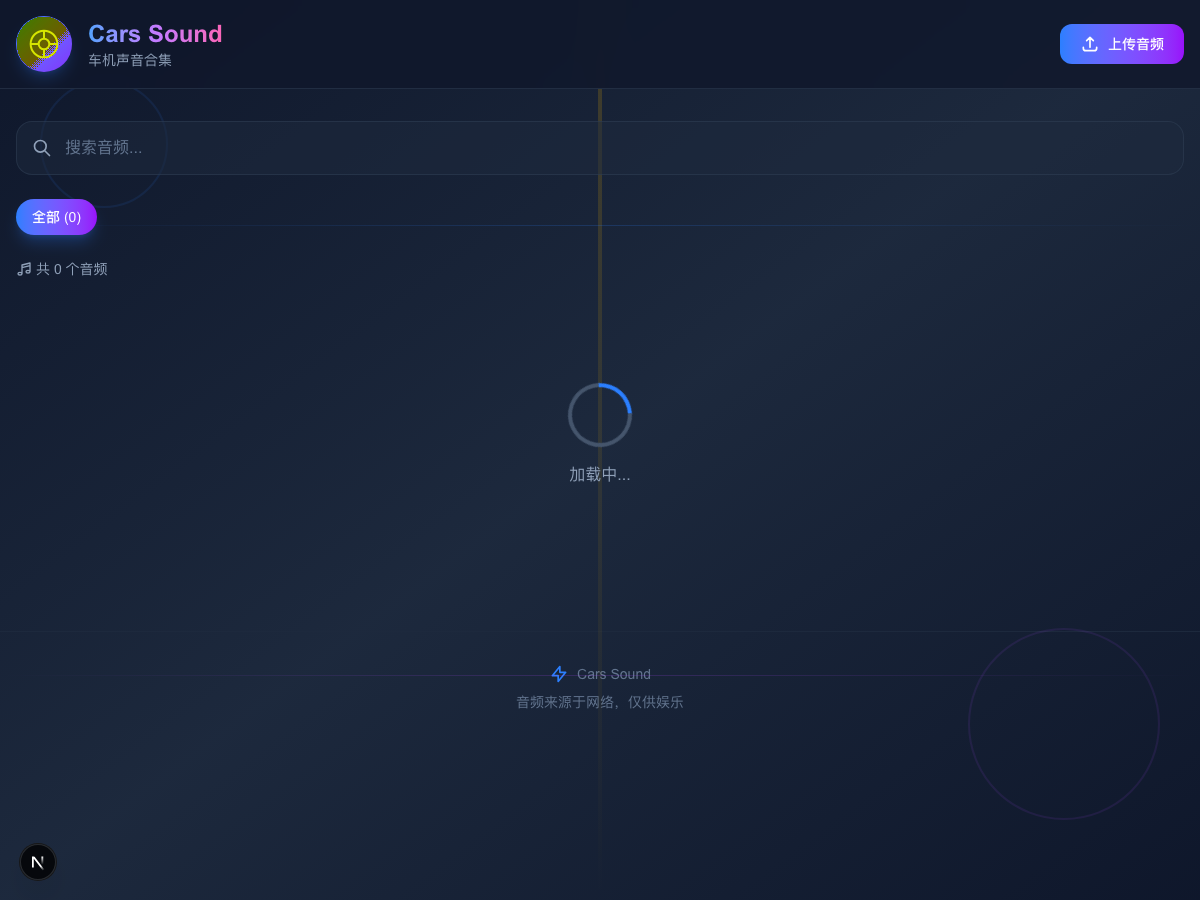
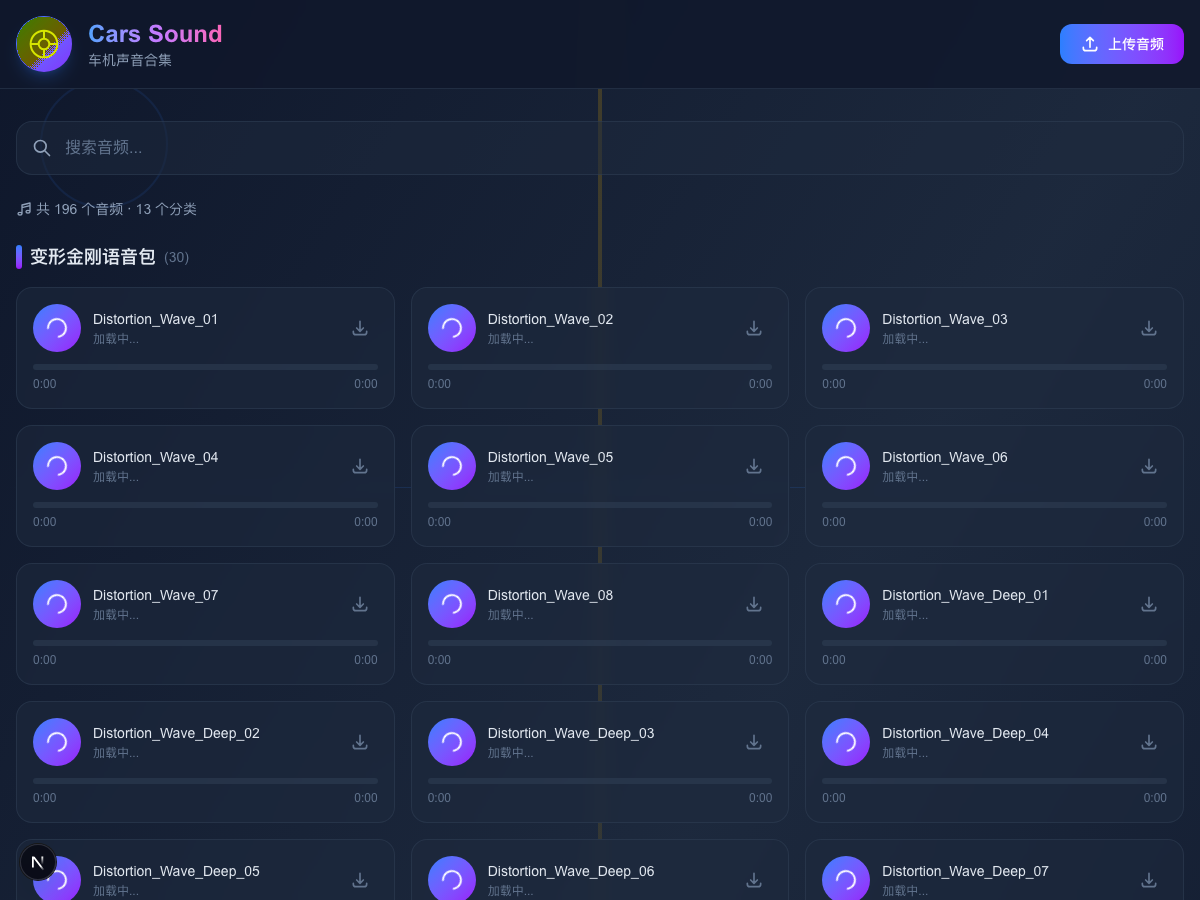
feat: 优化分类加载逻辑
1. 默认只加载第一个分类的音频
2. 点击分类筛选切换显示
3. 移除无限滚动，改为分类切换
4. 所有 R2 文件已按文件夹分类完成

diff --git a/src/app/page.tsx b/src/app/page.tsx
@@ -1,6 +1,6 @@
 'use client';
 
-import { useState, useEffect, useCallback, useRef } from 'react';
+import { useState, useEffect, useRef } from 'react';
 import AudioPlayer from '@/components/AudioPlayer';
 import UploadZone from '@/components/UploadZone';
 import JsonLd from '@/components/JsonLd';
@@ -19,17 +19,13 @@ interface Category {
   count: number;
 }
 
-const ITEMS_PER_PAGE = 30;
-
 export default function Home() {
   const [files, setFiles] = useState<AudioFile[]>([]);
   const [categories, setCategories] = useState<Category[]>([]);
   const [loading, setLoading] = useState(true);
   const [searchQuery, setSearchQuery] = useState('');
   const [showUpload, setShowUpload] = useState(false);
-  const [displayCount, setDisplayCount] = useState(ITEMS_PER_PAGE);
-  const observerRef = useRef<IntersectionObserver | null>(null);
-  const loadMoreRef = useRef<HTMLDivElement | null>(null);
+  const [selectedCategory, setSelectedCategory] = useState<string | null>(null);
 
   const fetchFiles = async () => {
     setLoading(true);
@@ -37,7 +33,12 @@ export default function Home() {
       const response = await fetch('/api/audio-list');
       const data = await response.json();
       setFiles(data.files || []);
-      setCategories(data.categories || []);
+      const cats = data.categories || [];
+      setCategories(cats);
+      // 默认选中第一个分类
+      if (cats.length > 0 && !selectedCategory) {
+        setSelectedCategory(cats[0].name);
+      }
     } catch (error) {
       console.error('Failed to fetch files:', error);
     } finally {
@@ -49,12 +50,8 @@ export default function Home() {
     fetchFiles();
   }, []);
 
-  const filteredFiles = files.filter(file => {
-    return file.name.toLowerCase().includes(searchQuery.toLowerCase());
-  });
-
   // 按分类分组
-  const groupedFiles = filteredFiles.reduce((acc, file) => {
+  const groupedFiles = files.reduce((acc, file) => {
     const category = file.category;
     if (!acc[category]) {
       acc[category] = [];
@@ -63,55 +60,12 @@ export default function Home() {
     return acc;
   }, {} as Record<string, AudioFile[]>);
 
-  // 获取要显示的文件（懒加载）
-  const filesToShow = filteredFiles.slice(0, displayCount);
-  const hasMore = displayCount < filteredFiles.length;
-
-  // 无限滚动
-  const loadMore = useCallback(() => {
-    if (hasMore) {
-      setDisplayCount(prev => prev + ITEMS_PER_PAGE);
-    }
-  }, [hasMore]);
-
-  useEffect(() => {
-    const options = {
-      root: null,
-      rootMargin: '100px',
-      threshold: 0.1,
-    };
-
-    observerRef.current = new IntersectionObserver((entries) => {
-      if (entries[0].isIntersecting && hasMore) {
-        loadMore();
-      }
-    }, options);
-
-    if (loadMoreRef.current) {
-      observerRef.current.observe(loadMoreRef.current);
-    }
-
-    return () => {
-      if (observerRef.current) {
-        observerRef.current.disconnect();
-      }
-    };
-  }, [hasMore, loadMore]);
-
-  // 重置分页当筛选条件改变
-  useEffect(() => {
-    setDisplayCount(ITEMS_PER_PAGE);
-  }, [searchQuery]);
-
-  // 重新分组显示的文件
-  const displayedGroupedFiles = filesToShow.reduce((acc, file) => {
-    const category = file.category;
-    if (!acc[category]) {
-      acc[category] = [];
-    }
-    acc[category].push(file);
-    return acc;
-  }, {} as Record<string, AudioFile[]>);
+  // 获取当前分类的文件
+  const currentCategoryFiles = selectedCategory 
+    ? (groupedFiles[selectedCategory] || []).filter(file => 
+        file.name.toLowerCase().includes(searchQuery.toLowerCase())
+      )
+    : [];
 
   return (
     <>
@@ -174,7 +128,7 @@ export default function Home() {
               </svg>
               <input
                 type="text"
-                placeholder="搜索音频..."
+                placeholder="搜索当前分类..."
                 value={searchQuery}
                 onChange={(e) => setSearchQuery(e.target.value)}
                 className="w-full pl-12 pr-4 py-3.5 bg-slate-800/50 border border-slate-700/50 rounded-2xl focus:outline-none focus:ring-2 focus:ring-blue-500 focus:border-transparent text-slate-200 placeholder-slate-500"
@@ -182,15 +136,36 @@ export default function Home() {
             </div>
           </div>
 
+          {/* Category Navigation */}
+          {!loading && categories.length > 0 && (
+            <div className="mb-6 flex flex-wrap gap-2">
+              {categories.map((cat) => (
+                <button
+                  key={cat.name}
+                  onClick={() => {
+                    setSelectedCategory(cat.name);
+                    setSearchQuery('');
+                  }}
+                  className={`px-4 py-2 rounded-full text-sm font-medium transition-all duration-200 ${
+                    selectedCategory === cat.name
+                      ? 'bg-gradient-to-r from-blue-500 to-purple-600 text-white shadow-lg shadow-blue-500/25'
+                      : 'bg-slate-800/50 text-slate-300 hover:bg-slate-700/50 border border-slate-700/50 hover:border-blue-500/50'
+                  }`}
+                >
+                  {cat.name} ({cat.count})
+                </button>
+              ))}
+            </div>
+          )}
+
           {/* Stats */}
           <div className="flex items-center gap-4 mb-6 text-sm text-slate-400">
             <span className="flex items-center gap-1">
               <svg className="w-4 h-4" fill="none" stroke="currentColor" viewBox="0 0 24 24">
                 <path strokeLinecap="round" strokeLinejoin="round" strokeWidth={2} d="M9 19V6l12-3v13M9 19c0 1.105-1.343 2-3 2s-3-.895-3-2 1.343-2 3-2 3 .895 3 2zm12-3c0 1.105-1.343 2-3 2s-3-.895-3-2 1.343-2 3-2 3 .895 3 2zM9 10l12-3" />
               </svg>
-              共 {files.length} 个音频 · {categories.length} 个分类
+              {selectedCategory ? `${selectedCategory}: ${currentCategoryFiles.length} 个音频` : `共 ${files.length} 个音频 · ${categories.length} 个分类`}
             </span>
-            {searchQuery && <span>· 搜索到 {filteredFiles.length} 个结果</span>}
           </div>
 
           {/* Audio List */}
@@ -199,39 +174,23 @@ export default function Home() {
               <div className="w-16 h-16 border-4 border-slate-600 border-t-blue-500 rounded-full animate-spin mb-4" />
               <p className="text-slate-400">加载中...</p>
             </div>
-          ) : filteredFiles.length === 0 ? (
+          ) : !selectedCategory ? (
             <div className="text-center py-20 text-slate-400">
-              {searchQuery ? '没有找到匹配的音频' : '暂无音频文件，点击上方按钮上传'}
+              请选择一个分类查看音频
+            </div>
+          ) : currentCategoryFiles.length === 0 ? (
+            <div className="text-center py-20 text-slate-400">
+              {searchQuery ? '没有找到匹配的音频' : '该分类暂无音频'}
             </div>
           ) : (
-            <div className="space-y-8">
-              {Object.entries(displayedGroupedFiles).map(([category, categoryFiles]) => (
-                <div key={category}>
-                  <h2 className="text-lg font-semibold text-slate-200 mb-4 flex items-center gap-2">
-                    <span className="w-1.5 h-6 bg-gradient-to-b from-blue-500 to-purple-600 rounded-full" />
-                    {category}
-                    <span className="text-sm font-normal text-slate-500">({categoryFiles.length})</span>
-                  </h2>
-                  <div className="grid grid-cols-1 sm:grid-cols-2 lg:grid-cols-3 xl:grid-cols-4 gap-4">
-                    {categoryFiles.map((file) => (
-                      <AudioPlayer
-                        key={file.key}
-                        src={file.url}
-                        title={file.name.replace(/\.(mp3|wav|ogg|m4a)$/i, '')}
-                      />
-                    ))}
-                  </div>
-                </div>
+            <div className="grid grid-cols-1 sm:grid-cols-2 lg:grid-cols-3 xl:grid-cols-4 gap-4">
+              {currentCategoryFiles.map((file) => (
+                <AudioPlayer
+                  key={file.key}
+                  src={file.url}
+                  title={file.name.replace(/\.(mp3|wav|ogg|m4a)$/i, '')}
+                />
               ))}
-              
-              {hasMore && (
-                <div ref={loadMoreRef} className="flex justify-center py-8">
-                  <div className="flex items-center gap-2 text-slate-400">
-                    <div className="w-5 h-5 border-2 border-blue-500 border-t-transparent rounded-full animate-spin" />
-                    <span>加载更多...</span>
-                  </div>
-                </div>
-              )}
             </div>
           )}
         </main>

diff --git a/scripts/move-uncategorized.ts b/scripts/move-uncategorized.ts
@@ -1,0 +1,70 @@
+import { S3Client, ListObjectsV2Command, CopyObjectCommand, DeleteObjectCommand } from '@aws-sdk/client-s3';
+
+const r2Client = new S3Client({
+  region: 'auto',
+  endpoint: `https://ae32780581ce1b7c7495b91edf6ad810.r2.cloudflarestorage.com`,
+  credentials: {
+    accessKeyId: '8e0ed3907e5c1d77f029d77e421058bc',
[1 lines of base64/hex data omitted]
+  },
+});
+
+const BUCKET_NAME = 'sound';
+
+async function moveUncategorizedFiles() {
+  console.log('扫描 R2 中未分类的文件...\n');
+  
+  const listCommand = new ListObjectsV2Command({ Bucket: BUCKET_NAME });
+  const response = await r2Client.send(listCommand);
+  
+  if (!response.Contents) {
+    console.log('没有找到文件');
+    return;
+  }
+  
+  // 找出没有文件夹的文件（key 中没有 /）
+  const uncategorizedFiles = response.Contents.filter(item => {
+    const key = item.Key!;
+    const hasFolder = key.includes('/');
+    const isAudio = key.toLowerCase().match(/\.(mp3|wav|ogg|m4a)$/);
+    return !hasFolder && isAudio;
+  });
+  
+  console.log(`找到 ${uncategorizedFiles.length} 个未分类的音频文件\n`);
+  
+  if (uncategorizedFiles.length === 0) {
+    console.log('所有文件都已分类！');
+    return;
+  }
+  
+  // 移动到"其他文件"文件夹
+  for (let i = 0; i < uncategorizedFiles.length; i++) {
+    const file = uncategorizedFiles[i];
+    const oldKey = file.Key!;
+    const filename = oldKey.split('/').pop() || oldKey;
+    const newKey = `其他文件/${filename}`;
+    
+    try {
+      // 复制到新位置
+      await r2Client.send(new CopyObjectCommand({
+        Bucket: BUCKET_NAME,
+        CopySource: `${BUCKET_NAME}/${encodeURIComponent(oldKey)}`,
+        Key: newKey,
+      }));
+      
+      // 删除旧文件
+      await r2Client.send(new DeleteObjectCommand({
+        Bucket: BUCKET_NAME,
+        Key: oldKey,
+      }));
+      
+      console.log(`[${i + 1}/${uncategorizedFiles.length}] ✅ ${filename} → 其他文件/`);
+    } catch (error) {
+      console.error(`[${i + 1}/${uncategorizedFiles.length}] ❌ 失败: ${filename}`, error);
+    }
+  }
+  
+  console.log('\n✅ 移动完成！');
+}
+
+moveUncategorizedFiles().catch(console.error);
